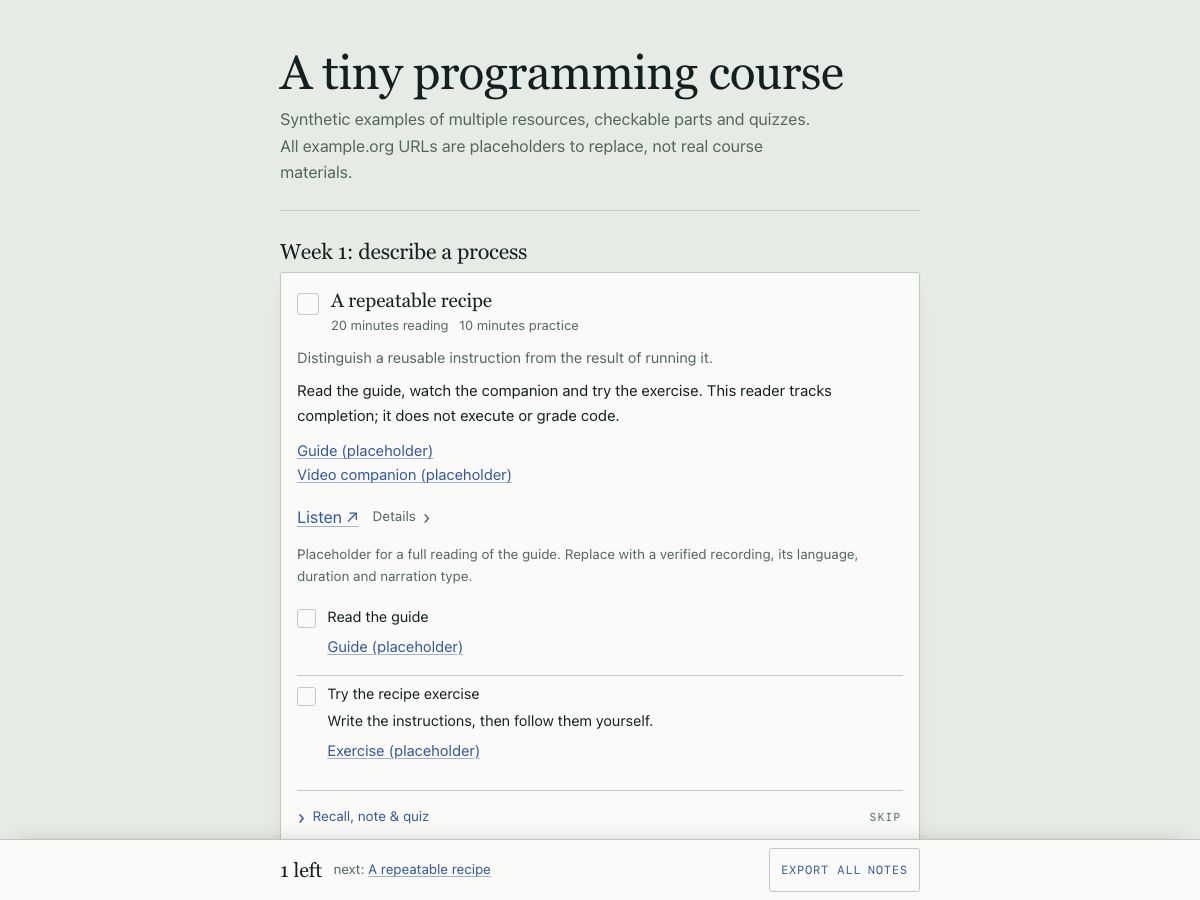
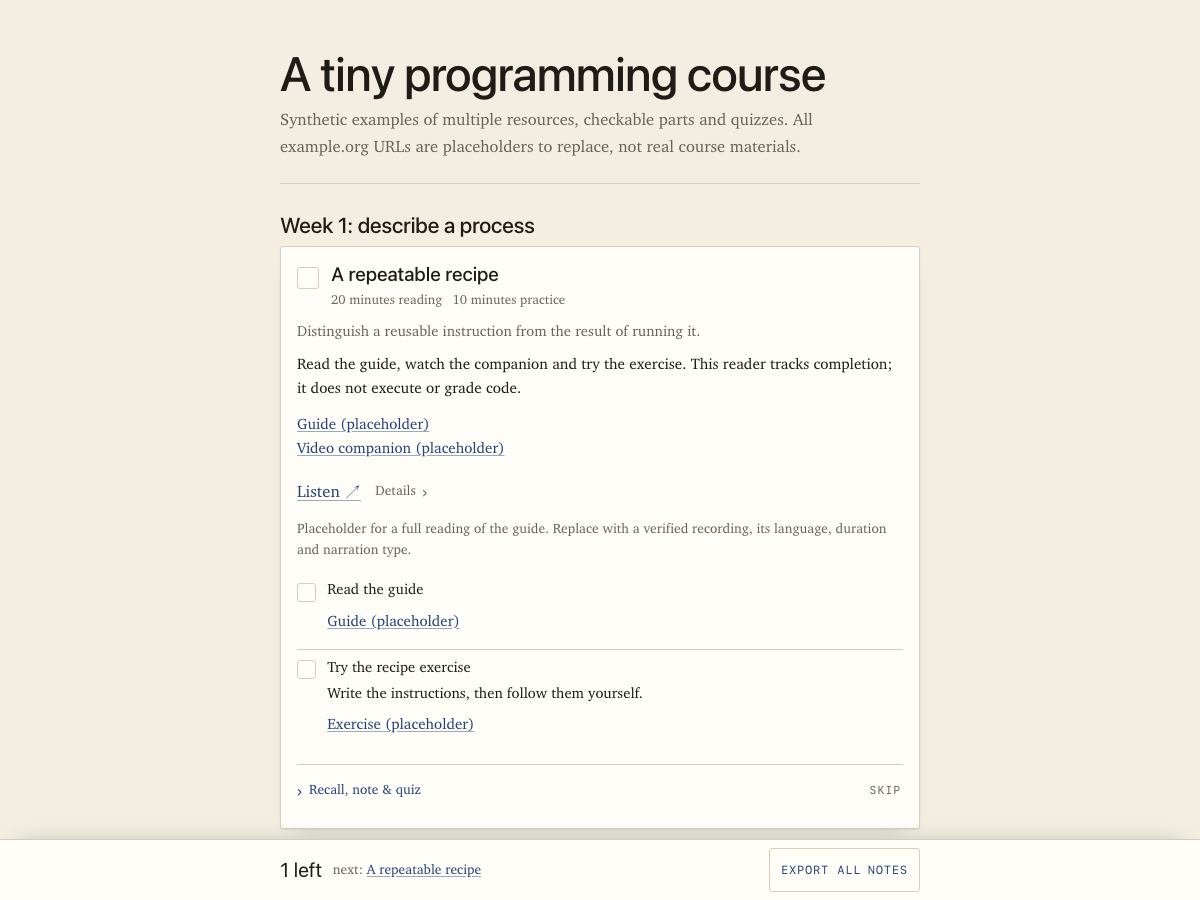
demo: make the course theme visibly distinct (paper, navy, serif body); refresh screenshot
Claude-Session: https://claude.ai/code/session_01QSkk3C2B3atpnE3cNqvmvq

diff --git a/examples/course/theme.css b/examples/course/theme.css
@@ -1,15 +1,39 @@
 /* Optional override: set config.theme to "examples/course/theme.css". */
+/* Warm paper, navy accent, serif body with sans headings (the default is the reverse). */
 :root {
-  --accent: #3156a4;
-  --accent-soft: #e9effb;
+  --ground: #F3EDE2;
+  --surface: #FFFDF8;
+  --ink: #1F1B16;
+  --muted: #6B6155;
+  --rule: #D8CDBB;
+  --accent: #23407A;
+  --accent-soft: #E3E8F4;
+  --signal: #9C3D1F;
+  --signal-soft: #F3DED3;
+  --font-body: Charter, "Iowan Old Style", Georgia, serif;
+  --font-heading: -apple-system, BlinkMacSystemFont, "Segoe UI", sans-serif;
 }
 @media (prefers-color-scheme: dark) {
   :root:not([data-theme="light"]) {
-    --accent: #a7c1ff;
-    --accent-soft: #223454;
+    --ground: #1B1814;
+    --surface: #26221C;
+    --ink: #EFE8DC;
+    --muted: #B0A594;
+    --rule: #463F34;
+    --accent: #9DB5EE;
+    --accent-soft: #273453;
+    --signal: #E79A7B;
+    --signal-soft: #45291F;
   }
 }
 :root[data-theme="dark"] {
-  --accent: #a7c1ff;
-  --accent-soft: #223454;
+  --ground: #1B1814;
+  --surface: #26221C;
+  --ink: #EFE8DC;
+  --muted: #B0A594;
+  --rule: #463F34;
+  --accent: #9DB5EE;
+  --accent-soft: #273453;
+  --signal: #E79A7B;
+  --signal-soft: #45291F;
 }
